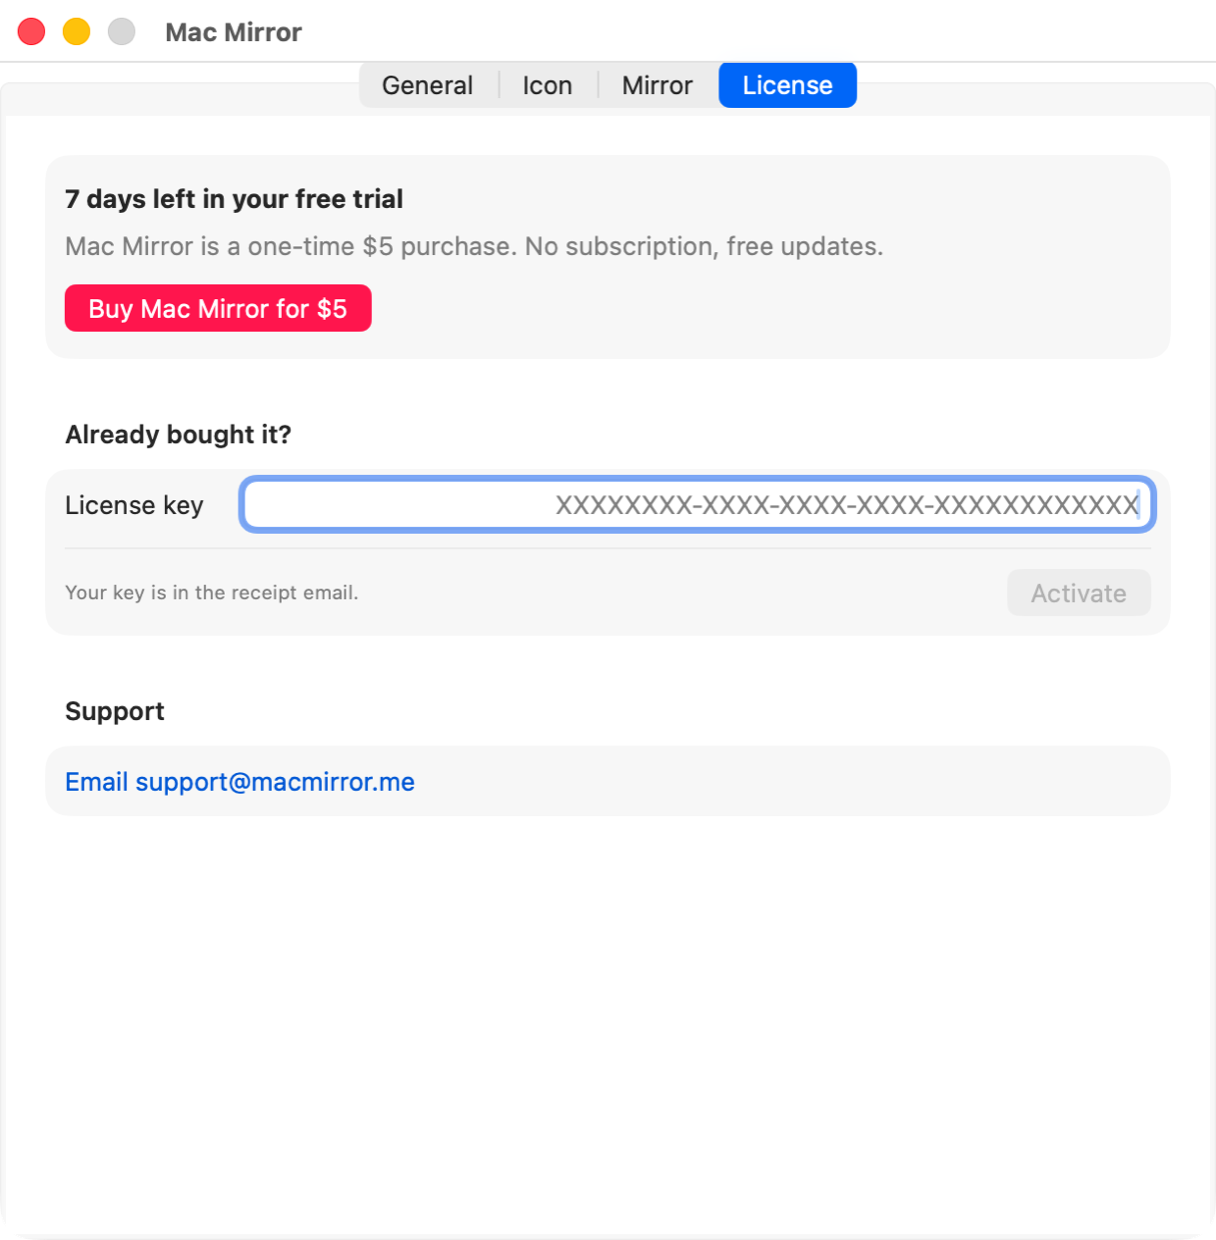
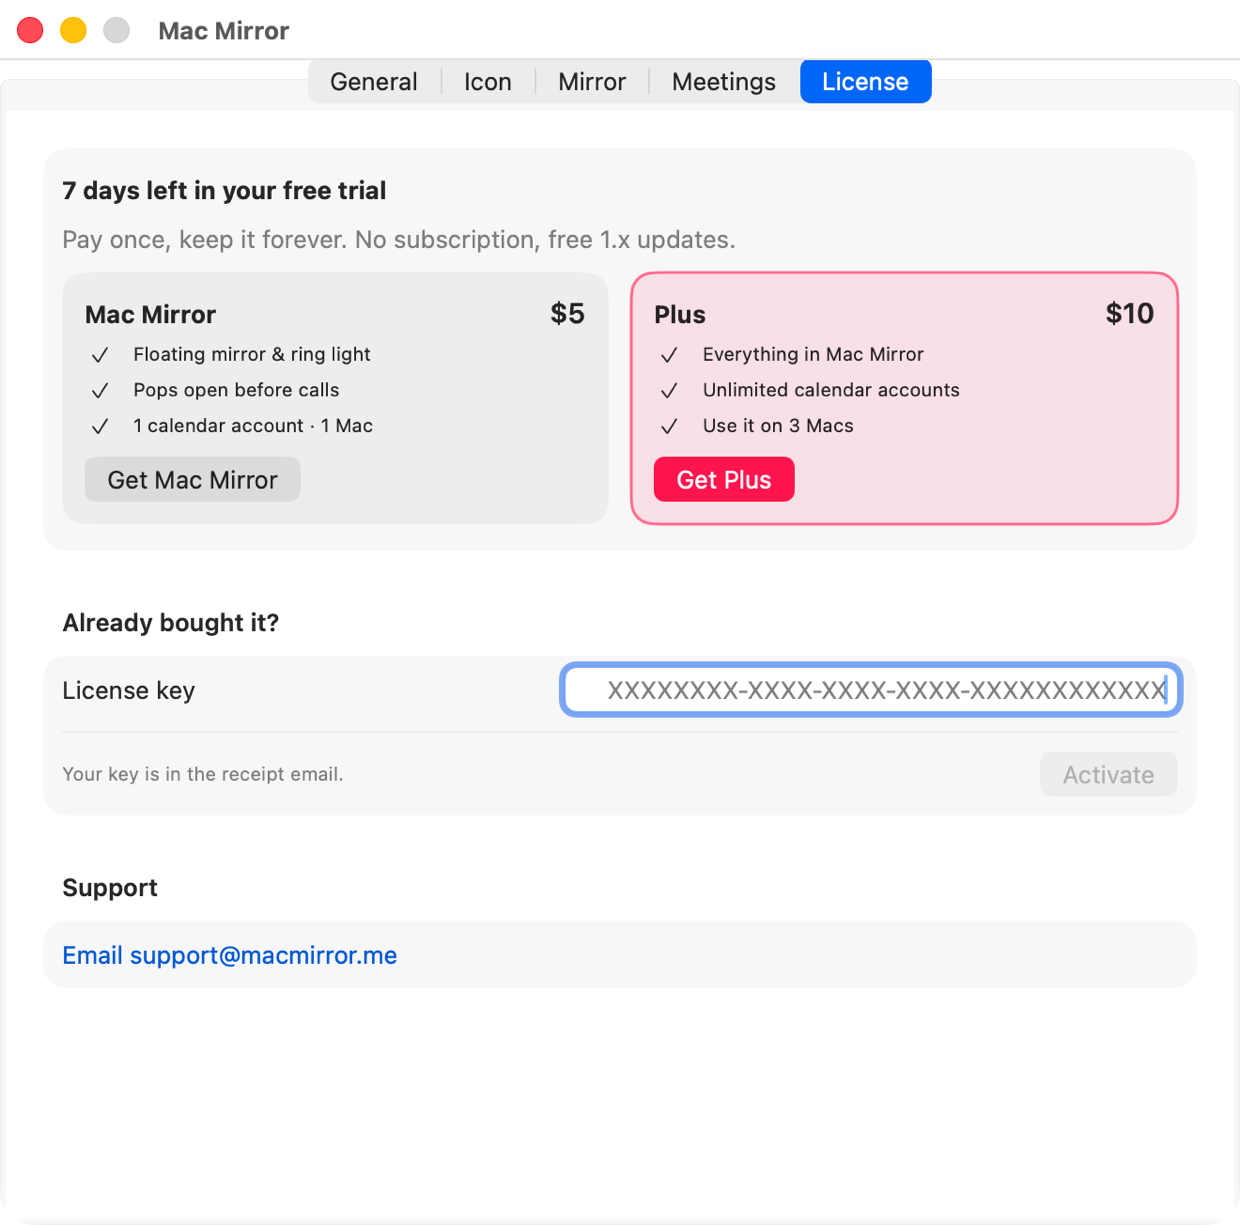
Two plans: Mac Mirror $5 and Plus $10, upgrade anytime; updated guide, FAQ, terms and screenshots

diff --git a/index.html b/index.html
@@ -21,7 +21,7 @@
         <a href="#faq">FAQ</a>
         <a href="guide.html">Guide</a>
         <a href="https://www.instagram.com/macmirror.me/" target="_blank" rel="noopener">Instagram</a>
-        <a class="btn small" data-link="buy" href="#pricing">Buy for $5</a>
+        <a class="btn small" href="#pricing">Pricing</a>
       </div>
     </div>
   </nav>
@@ -32,13 +32,13 @@
         <h1>Look your best <em>before</em> every call.</h1>
         <p class="lead">Mac Mirror pops open 2 minutes before your Zoom, Meet or Teams call, with a smile 😊, a soft ring light and a Join button. Need a check anytime? Just hover.</p>
         <div class="cta">
-          <a class="btn" data-link="buy" href="#pricing">Buy Mac Mirror ($5)</a>
+          <a class="btn" data-link="buy" href="#pricing">Get Mac Mirror ($5)</a>
           <a class="btn ghost" href="install.html">Try free for 7 days</a>
         </div>
         <div class="badges">
           <span class="badge">📅 Google · Outlook · iCloud</span>
           <span class="badge">🎥 Zoom · Meet · Teams</span>
-          <span class="badge">$5 once</span>
+          <span class="badge">From $5 once</span>
           <span class="badge">macOS 14+</span>
           <span class="badge">Apple Silicon &amp; Intel</span>
                     <span class="badge">7-day free trial</span>
@@ -120,7 +120,7 @@
 
         <div class="look">
           <div>
-            <h3>Pops open before every call <span class="badge" style="vertical-align:middle">New</span></h3>
+            <h3>Pops open before every call</h3>
             <p>Link your calendar once and Mac Mirror opens itself a couple of minutes before each video call, with a cheerful nudge (“😊 Smile!”), a live countdown and a one-click <strong>Join</strong> button.</p>
             <ul>
               <li>Zoom, Google Meet, Teams, Webex, FaceTime &amp; Slack links</li>
@@ -185,7 +185,7 @@
           <div class="spec"><b>Video calls</b>Zoom, Google Meet, Teams, Webex, FaceTime, Slack</div>
           <div class="spec"><b>Size</b>3 MB download, near-zero CPU when idle</div>
           <div class="spec"><b>Privacy</b>No account, no analytics; video never leaves your Mac</div>
-          <div class="spec"><b>License</b>$5 once, up to 3 Macs, all 1.x updates</div>
+          <div class="spec"><b>License</b>Mac Mirror $5 (1 Mac, 1 calendar account) or Plus $10 (3 Macs, unlimited calendars), once</div>
           <div class="spec"><b>Install</b>One Terminal command or a classic DMG (<a href="install.html">how</a>)</div>
         </div>
       </div>
@@ -193,22 +193,37 @@
 
     <section id="pricing">
       <div class="wrap">
-        <div class="price">
-          <img src="assets/app-icon.png" alt="" style="width:84px;margin:0 auto 10px">
-          <div class="amount">$5 <small>one time</small></div>
-          <ul>
-            <li>Lifetime license, no subscription</li>
-            <li>Use it on up to 3 of your Macs</li>
-            <li>All future 1.x updates included</li>
-            <li>7-day free trial, then unlock with your key</li>
-            <li>14-day money-back guarantee</li>
-          </ul>
-          <div class="cta" style="justify-content:center">
-            <a class="btn" data-link="buy" href="#pricing">Buy Mac Mirror</a>
-            <a class="btn ghost" href="install.html">Download trial</a>
+        <h2 style="text-align:center">Pay once. Keep it forever.</h2>
+        <p class="sub" style="text-align:center;margin-left:auto;margin-right:auto">Try everything free for 7 days. No account, no subscription.</p>
+        <div class="tiers">
+          <div class="price tier">
+            <h3>Mac Mirror</h3>
+            <div class="amount">$5 <small>once</small></div>
+            <p class="tier-sub">Everything you need for your calls.</p>
+            <ul>
+              <li>Floating mirror, 5 styles, ring light</li>
+              <li>Hover, click, hold ⌘ or ⌥⌘M</li>
+              <li><strong>Pops open before every call</strong> with a 😊 nudge &amp; Join</li>
+              <li><strong>1 calendar account</strong> (e.g. your work Google)</li>
+              <li><strong>1 Mac</strong> · all 1.x updates</li>
+            </ul>
+            <a class="btn ghost" data-link="buy" href="#pricing">Get Mac Mirror</a>
           </div>
-          <p class="fine">Secure checkout by Dodo Payments. Taxes calculated at checkout.</p>
+          <div class="price tier featured">
+            <span class="ribbon">Best value</span>
+            <h3>Mac Mirror Plus</h3>
+            <div class="amount">$10 <small>once</small></div>
+            <p class="tier-sub">For people with more than one calendar.</p>
+            <ul>
+              <li><strong>Everything in Mac Mirror</strong></li>
+              <li><strong>Unlimited calendar accounts</strong>, all at once: work Google, personal iCloud, Outlook, Exchange</li>
+              <li><strong>Use it on 3 Macs</strong></li>
+              <li>All 1.x updates</li>
+            </ul>
+            <a class="btn" data-link="buyPlus" href="#pricing">Get Plus</a>
+          </div>
         </div>
+        <p class="fine" style="text-align:center">Upgrade from Mac Mirror to Plus anytime for the $5 difference, right in the app. · 14-day money-back guarantee · Secure checkout by Dodo Payments, taxes at checkout. · <a href="install.html">Download the free trial</a></p>
       </div>
     </section>
 
@@ -221,6 +236,8 @@
         <details><summary>macOS says it can’t open Mac Mirror. What do I do?</summary><p>Mac Mirror is sold directly, not through the App Store, so macOS asks you to confirm it the first time. Open <strong>System Settings → Privacy &amp; Security</strong>, scroll down and click <strong>Open Anyway</strong> next to Mac Mirror. You only need to do this once. <a href="install.html">Step-by-step guide</a>.</p></details>
         <details><summary>How do I unlock it after buying?</summary><p>Your license key arrives by email right after checkout. Open Mac Mirror → Settings → License, paste it in, and you're done.</p></details>
         <details><summary>Can I get a refund?</summary><p>Yes. Email us within 14 days of purchase for a full refund. See the <a href="refund.html">refund policy</a>.</p></details>
+        <details><summary>What's the difference between Mac Mirror and Plus?</summary><p>Both pop open before your calls. <strong>Mac Mirror ($5)</strong> watches <strong>one calendar account</strong> and works on <strong>1 Mac</strong>. <strong>Plus ($10)</strong> watches <strong>all your calendar accounts</strong> at once (say, work Google and personal iCloud) and works on <strong>3 Macs</strong>. The free trial includes everything.</p></details>
+        <details><summary>Can I upgrade to Plus later?</summary><p>Yes, anytime. Click <strong>Upgrade to Plus</strong> in the menu bar or in Settings and pay just the $5 difference.</p></details>
         <details><summary>Does it work with Google Calendar and Outlook?</summary><p>Yes. Mac Mirror reads every calendar on your Mac, including Google, Outlook / Microsoft 365, iCloud and Exchange. Link the account once (Settings → Meetings → Link your calendars) and Mac Mirror pops open before each Zoom, Meet or Teams call. Your calendar never leaves your Mac.</p></details>
         <details><summary>Where can I learn everything it does?</summary><p>The <a href="guide.html">Mac Mirror Guide</a> covers every feature, setting, shortcut and fix.</p></details>
         <details><summary>Does holding ⌘ interfere with shortcuts like ⌘C?</summary><p>No. The mirror only opens when you hold the key on its own; pressing any other key or clicking cancels it. You can change the key or turn it off in Settings.</p></details>

diff --git a/guide.html b/guide.html
@@ -16,7 +16,7 @@
         <a href="/#how">How it works</a>
         <a href="guide.html" aria-current="page">Guide</a>
         <a href="https://www.instagram.com/macmirror.me/" target="_blank" rel="noopener">Instagram</a>
-        <a class="btn small" data-link="buy" href="/#pricing">Buy for $5</a>
+        <a class="btn small" href="/#pricing">Pricing</a>
       </div>
     </div>
   </nav>
@@ -120,7 +120,7 @@
 
       <section id="meetings">
         <h2>Meetings &amp; calendars</h2>
-        <p>Mac Mirror can open itself shortly before your video calls, so you always join looking your best.</p>
+        <p>Mac Mirror can open itself shortly before your video calls, so you always join looking your best. Meeting mode is in every plan: Mac Mirror watches <strong>1 calendar account</strong>, Plus watches <strong>all of them</strong>. With several accounts on the basic plan, pick the one to use with <strong>Use this one</strong>.</p>
         <ol class="steps">
           <li>Open <strong>Settings → Meetings</strong> and make sure <strong>Pop open before video calls</strong> is on.</li>
           <li>Click <strong>Allow calendar access</strong>.</li>
@@ -198,8 +198,9 @@
       <section id="license">
         <h2>Trial &amp; license</h2>
         <ul>
-          <li><strong>7-day free trial</strong> with every feature. No account, no card.</li>
-          <li><strong>$5 once.</strong> Lifetime license, all 1.x updates, use it on up to <strong>3 Macs</strong>.</li>
+          <li><strong>7-day free trial</strong> with every feature, including meeting mode. No account, no card.</li>
+          <li><strong>Two plans, both one-time with all 1.x updates:</strong> <strong>Mac Mirror $5</strong> (1 Mac, 1 calendar account) or <strong>Mac Mirror Plus $10</strong> (3 Macs, unlimited calendar accounts). Meeting mode is in both.</li>
+          <li><strong>Upgrade anytime</strong> for the $5 difference: click <strong>Upgrade to Plus</strong> in the menu bar or Settings, then activate the upgrade key on the Mac where Mac Mirror is unlocked.</li>
           <li>Your <strong>license key arrives by email</strong> right after checkout. Paste it into <strong>Settings → License → Activate</strong>.</li>
           <li><strong>New Mac?</strong> Click “Deactivate on this Mac” first to free a slot, then activate on the new one.</li>
           <li>Once activated, Mac Mirror keeps working offline.</li>
@@ -227,7 +228,7 @@
         <details><summary>The mirror doesn't open before my meetings</summary><p>Check <strong>Settings → Meetings</strong>: the toggle is on, calendar access says <strong>Allowed</strong>, and your calendar is ticked under “Calendars to watch”. Make sure the event has a Zoom/Meet/Teams link (or turn off “Only events with a video-call link”). If your calendar isn't listed, link the account with the <strong>Link</strong> buttons.</p></details>
         <details><summary>I can't find the floating icon</summary><p>Click the Mac Mirror icon in the menu bar → <strong>Show Floating Icon</strong>. If you hid both, open Mac Mirror again from Applications to bring up Settings.</p></details>
         <details><summary>Holding ⌘ doesn't open it</summary><p>Check Settings → General → <strong>Long-press a key</strong> isn't set to Off. Hold the key on its own without pressing anything else, for at least the “Hold for” time.</p></details>
-        <details><summary>My license key doesn't work</summary><p>Copy it exactly from the email (no spaces). If it says it's active on 3 Macs, deactivate one first. Still stuck? Email <a href="mailto:support@macmirror.me">support@macmirror.me</a>.</p></details>
+        <details><summary>My license key doesn't work</summary><p>Copy it exactly from the email (no spaces). If it says it's already active on its maximum number of Macs (1 for Mac Mirror, 3 for Plus), deactivate it on the other Mac first. Still stuck? Email <a href="mailto:support@macmirror.me">support@macmirror.me</a>.</p></details>
       </section>
 
       <section id="uninstall">

diff --git a/terms.html b/terms.html
@@ -15,11 +15,11 @@
 
     <p>These terms apply to your purchase and use of Mac Mirror (“the app”). By buying or using the app, you agree to them.</p>
     <h2>License</h2>
-    <p>When you buy Mac Mirror you get a personal, non-transferable, lifetime license to use the app on up to three Macs you own or control. You may not resell, redistribute, reverse engineer or share your license key.</p>
+    <p>When you buy Mac Mirror you get a personal, non-transferable, lifetime license to use the app on one Mac (Mac Mirror) or up to three Macs (Mac Mirror Plus) that you own or control. You may not resell, redistribute, reverse engineer or share your license key.</p>
     <h2>Free trial</h2>
     <p>The app can be used free for 7 days. After that, a license is required to keep using it.</p>
     <h2>Payment</h2>
-    <p>Mac Mirror costs a one-time fee of US$5 (plus any applicable tax). There is no subscription. Orders are processed by our reseller and merchant of record, Dodo Payments, who handles billing, taxes and payment-related customer service.</p>
+    <p>Mac Mirror costs a one-time fee of US$5 and Mac Mirror Plus a one-time fee of US$10 (plus any applicable tax). Owners of Mac Mirror can upgrade to Plus for US$5. There is no subscription. Orders are processed by our reseller and merchant of record, Dodo Payments, who handles billing, taxes and payment-related customer service.</p>
     <h2>Updates</h2>
     <p>Your license includes all 1.x updates. A future major version may be offered as a separate purchase, and you can keep using the version you bought.</p>
     <h2>Refunds</h2>

diff --git a/style.css b/style.css
@@ -216,3 +216,14 @@ footer a { color: var(--muted); margin-right: 16px; }
 .card.feature-call { display: flex; gap: 18px; align-items: flex-start; margin-bottom: 16px; border: 2px solid var(--accent); background: linear-gradient(135deg, var(--accent-soft), var(--card) 60%); }
 .card.feature-call .emoji { font-size: 34px; }
 .card.feature-call h3 { margin-top: 2px; font-size: 21px; }
+
+.tiers { display: grid; grid-template-columns: repeat(2, minmax(0, 1fr)); gap: 20px; max-width: 860px; margin: 0 auto 18px; align-items: stretch; }
+.price.tier { max-width: none; margin: 0; text-align: left; position: relative; display: flex; flex-direction: column; }
+.price.tier h3 { margin: 0 0 8px; font-size: 22px; }
+.price.tier .amount { font-size: 52px; }
+.price.tier .tier-sub { color: var(--muted); margin: 6px 0 0; }
+.price.tier ul { flex: 1; }
+.price.tier .btn { justify-content: center; }
+.price.tier.featured { border: 2px solid var(--accent); background: linear-gradient(180deg, var(--accent-soft), var(--card) 45%); }
+.ribbon { position: absolute; top: -13px; right: 20px; background: var(--accent); color: var(--accent-ink); font-size: 12px; font-weight: 700; padding: 5px 12px; border-radius: 999px; }
+@media (max-width: 720px) { .tiers { grid-template-columns: 1fr; } }

diff --git a/links.js b/links.js
@@ -1,6 +1,7 @@
 // The only two links to update when launching. Empty = buttons scroll to the pricing card.
 const LINKS = {
   buy: "https://test.checkout.dodopayments.com/buy/pdt_0NpwPKD7hzVP7glohdWiZ?quantity=1&redirect_url=https://macmirror.me/thanks.html",      // Dodo Payments checkout link, e.g. "https://checkout.dodopayments.com/buy/pdt_xxx?quantity=1"
+  buyPlus: "https://test.checkout.dodopayments.com/buy/pdt_0NpxCPhjLfpQbA2v4ZgG3?quantity=1&redirect_url=https://macmirror.me/thanks.html",
   download: "https://github.com/kartikeyasharma10-arch/macmirror-site/releases/latest/download/MacMirror.dmg", // e.g. "https://github.com/kartikeyasharma10-arch/macmirror-site/releases/latest/download/MacMirror.dmg"
 };
 

diff --git a/install.html b/install.html
@@ -34,7 +34,7 @@
       <pre style="white-space:pre-wrap;background:var(--accent-soft);padding:12px 14px;border-radius:10px;font-size:14px"><code>xattr -dr com.apple.quarantine "/Applications/Mac Mirror.app"</code></pre>
     </details>
     <p>You only do this once. The floating mirror then appears on the right edge of your screen.</p>
-    <p>Enjoying the trial? <a data-link="buy" href="/#pricing">Unlock it forever for $5</a>.</p>
+    <p>Enjoying the trial? <a href="/#pricing">Unlock it forever from $5</a>.</p>
   </main>
   <script src="links.js"></script>
   <script>
